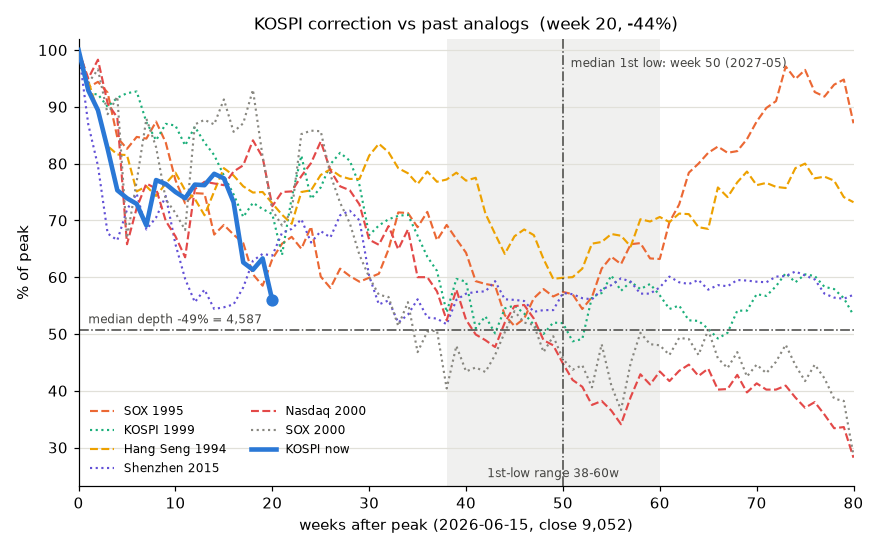
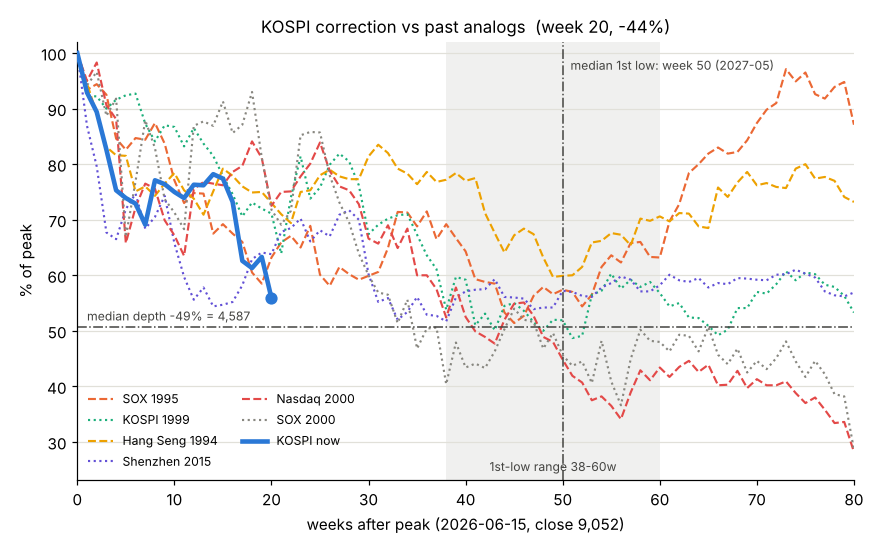
feat(kospi-wave): 엔벨로프(20일선 ±10%) 과열·과매도 신호 + 1996~ 첫 이탈 후 20일 성과 통계 [send-now:kospi_wave]
출처: 위폴 버디버디 NH투자증권 김동훈 대리 엔벨로프 활용편(2026-11-03). 영상의 ±20%는 개별 종목 기준이라 지수는 ±10% 적용

Claude-Session: https://claude.ai/code/session_015qD25wLLD4WQF4xdAJ16yQ

diff --git a/kospi_wave/kospi_wave.py b/kospi_wave/kospi_wave.py
@@ -314,6 +314,47 @@ def render_analog_chart(an: dict, path: str = CHART_PATH, n_lines: int = 6) -> s
     return path
 
 
+# ============================================================
+# 엔벨로프 (20일선 ± 밴드) — 11/09 반영: NH투자증권 김동훈 대리 '엔벨로프 활용' 영상(위폴, 2026-11-03)
+#   영상 기준 ±20%는 개별 종목용. 코스피 지수는 ±20% 도달이 드물어(1996~ 4회) ±10%를 주 밴드로 쓴다.
+# ============================================================
+ENV_MA, ENV_BAND, ENV_BAND_STOCK = 20, 0.10, 0.20
+
+
+def envelope_stats(close: pd.Series, band: float = ENV_BAND, fwd: int = 20, gap: int = 20) -> dict | None:
+    """밴드 첫 이탈(직전 20거래일 내 이탈 없음) 이후 fwd 거래일 수익률 분포 — 하단·상단 각각."""
+    import numpy as np
+    ma = close.rolling(ENV_MA).mean()
+    dev = (close / ma - 1).to_numpy()
+    c = close.to_numpy()
+    out = {}
+    for side, hit in (("lo", dev <= -band), ("hi", dev >= band)):
+        first = hit & ~np.r_[False, hit[:-1]]          # 전날은 밴드 안, 오늘 이탈
+        sel, last = [], -10 ** 9
+        for i in np.where(first)[0]:
+            if i - last >= gap:                          # 이벤트 간 20거래일 간격(군집 제거)
+                sel.append(i); last = i
+        r = np.array([c[i + fwd] / c[i] - 1 for i in sel if i + fwd < len(c)])
+        out[side] = {"n": int(len(r)), "med": float(np.median(r)) if len(r) else None,
+                     "win": float((r > 0).mean()) if len(r) else None}
+    return out
+
+
+def envelope(daily: pd.DataFrame) -> dict:
+    close = daily["Close"]
+    ma = float(close.rolling(ENV_MA).mean().iloc[-1])
+    dev = float(close.iloc[-1] / ma - 1)
+    out = {"ma": ma, "dev": dev, "lo": ma * (1 - ENV_BAND), "hi": ma * (1 + ENV_BAND),
+           "lo20": ma * (1 - ENV_BAND_STOCK), "hi20": ma * (1 + ENV_BAND_STOCK)}
+    try:  # 통계는 장기 일봉이 필요 — 실패해도 현재 위치는 표시
+        long = K._naive_dates(K._download("max", "1d", 2000))["Close"]
+        out["stats"] = envelope_stats(long)
+        out["stats_from"] = long.index[0].strftime("%Y")
+    except Exception as e:  # pragma: no cover - 네트워크
+        print(f"[envelope] 통계 생략: {e}")
+    return out
+
+
 def ema(s: pd.Series, n: int) -> pd.Series:
     return s.ewm(span=n, adjust=False).mean()
 
@@ -389,6 +430,10 @@ def analyze(df: pd.DataFrame, daily: pd.DataFrame, prev_latest: dict | None = No
         out["c_weeks"] = len(df) - 1 - (imp["5"]["i"] + B["k"])     # B 고점 → 이번 주
         out["hist_shrink1"] = abs(h0) < abs(h1)
     out["phase"], out["phase_label"], out["tone"] = judge(out)
+    try:
+        out["envelope"] = envelope(daily)
+    except Exception as e:  # pragma: no cover
+        print(f"[envelope] 실패: {e}")
     if abc["stage"] not in ("IMPULSE", "NEW_HIGH"):
         try:
             out["analog"] = find_analogs(df, imp)
@@ -564,6 +609,24 @@ def build_message(o: dict, prev: dict | None) -> str:
               f"· RSI {o['rsi']:.1f} · MACD 히스토 {o['macd_hist']:+,.0f} {o['hist_state']}",
               f"· EMA50 {f(o['ema50'])} · EMA200 {f(o['ema200'])}",
               "<i>C파 진입 후 완성도 점수가 표시됩니다</i>"]
+
+    ev = o.get("envelope")
+    if ev:
+        d = ev["dev"]
+        if d <= -ENV_BAND:
+            head = f"🟡 하단 이탈 {d * 100:+.1f}% — 과매도, 분할 매수 검토 구간"
+            st = (ev.get("stats") or {}).get("lo")
+        elif d >= ENV_BAND:
+            head = f"🔴 상단 돌파 {d * 100:+.1f}% — 단기 과열, 분할 매도 검토 구간"
+            st = (ev.get("stats") or {}).get("hi")
+        else:
+            head, st = f"밴드 안 {d * 100:+.1f}% — 중립", None
+        L += ["", f"〈엔벨로프 · 20일선 ±{ENV_BAND * 100:.0f}%〉", head,
+              f"· 20일선 {f(ev['ma'])} · 하단 {f(ev['lo'])} · 상단 {f(ev['hi'])}"]
+        if st and st["n"]:
+            L.append(f"· {ev.get('stats_from', '')}년 이후 첫 이탈 {st['n']}회 → 20일 뒤 중앙 {st['med'] * 100:+.1f}%, 상승 {st['win'] * 100:.0f}%")
+        if d <= -ENV_BAND:
+            L.append("<i>하단을 여러 번 찍으며 더 내려가기도 함 — 한 번에 사지 말고 나눠서</i>")
 
     an = o.get("analog")
     if an:

diff --git a/kospi_wave/tests/test_kospi_wave.py b/kospi_wave/tests/test_kospi_wave.py
@@ -111,5 +111,15 @@ class WaveTest(unittest.TestCase):
         self.assertTrue(out is None or os.path.getsize(out) > 1000)
 
 
+    def test_envelope(self):
+        idx = pd.date_range("2020-01-01", periods=120, freq="B")
+        c = pd.Series(np.r_[np.full(60, 100.0), np.full(5, 85.0), np.full(55, 95.0)], index=idx)
+        st = W.envelope_stats(c)
+        self.assertEqual(st["lo"]["n"], 1)
+        self.assertGreater(st["lo"]["med"], 0)
+        ev = W.envelope(pd.DataFrame({"Close": c}))
+        self.assertAlmostEqual(ev["lo"], ev["ma"] * 0.9)
+
+
 if __name__ == "__main__":
     unittest.main()
